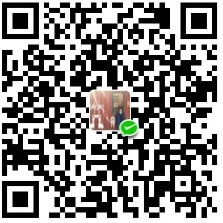
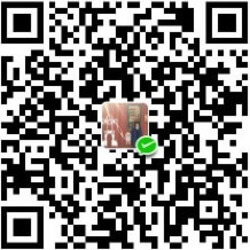
fix qr image

diff --git a/zh-hans/README.md b/zh-hans/README.md
@@ -113,7 +113,7 @@ Other contributors can be found in [Contributors to algorithm-exercise](https://
 
 #### 支付宝
 
-![支付宝打赏](../shared-files/images/alipay_billryan_qr15x15.png)
+![支付宝打赏](../shared-files/images/alipay_billryan_qr15x15.jpg)
 
 账户名：yuanbin2014(at)gmail.com 金额随意
 

diff --git a/en/README.md b/en/README.md
@@ -46,7 +46,7 @@ Other contributors can be found in [Contributors to algorithm-exercise](https://
 
 #### 支付宝
 
-![支付宝打赏](../shared-files/images/alipay_billryan_qr15x15.png)
+![支付宝打赏](../shared-files/images/alipay_billryan_qr15x15.jpg)
 
 账户名：yuanbin2014(at)gmail.com 金额随意
 

diff --git a/README.md b/README.md
@@ -46,7 +46,7 @@ Other contributors can be found in [Contributors to algorithm-exercise](https://
 
 #### 支付宝
 
-![支付宝打赏](./shared-files/images/alipay_billryan_qr15x15.png)
+![支付宝打赏](./shared-files/images/alipay_billryan_qr15x15.jpg)
 
 账户名：yuanbin2014(at)gmail.com 金额随意
 
